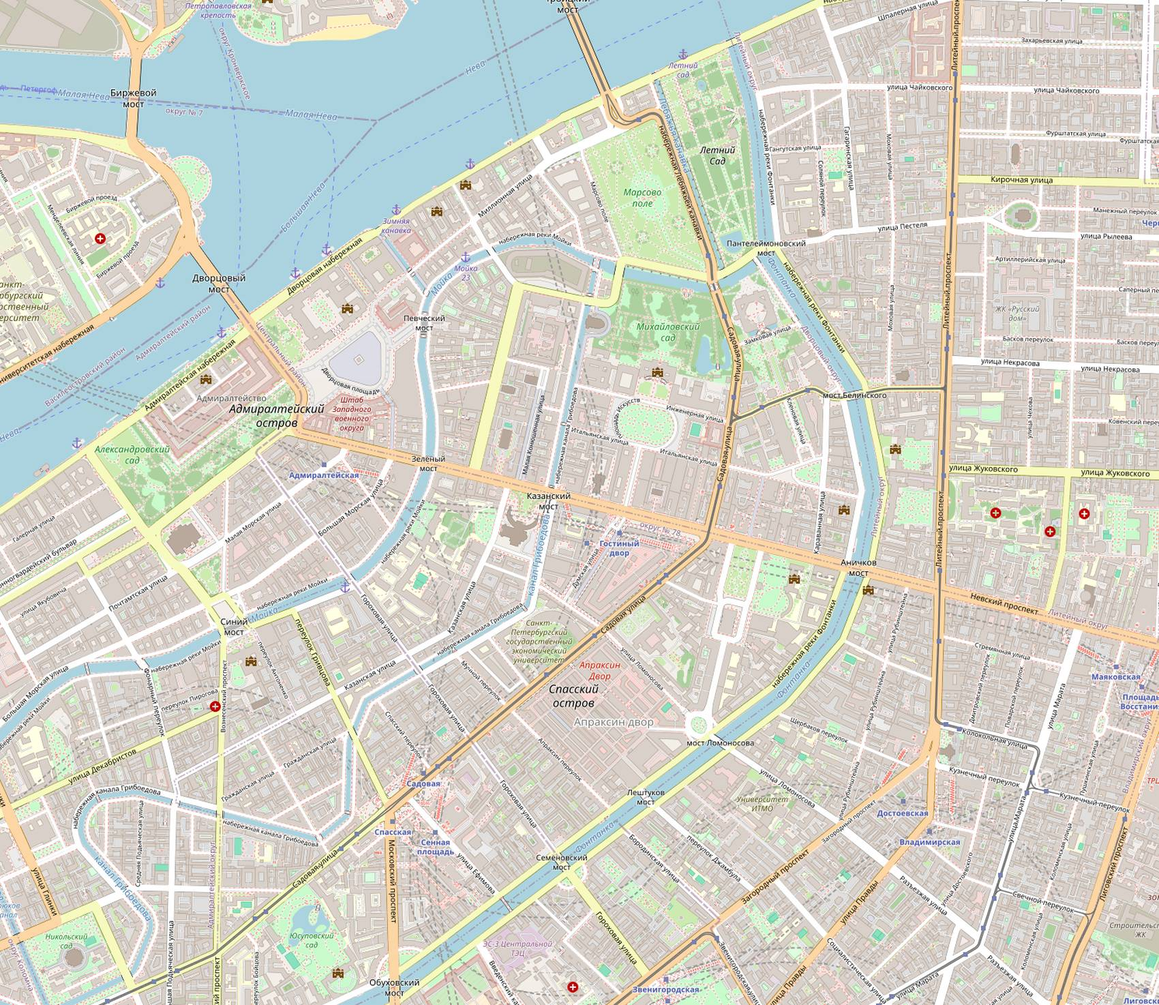
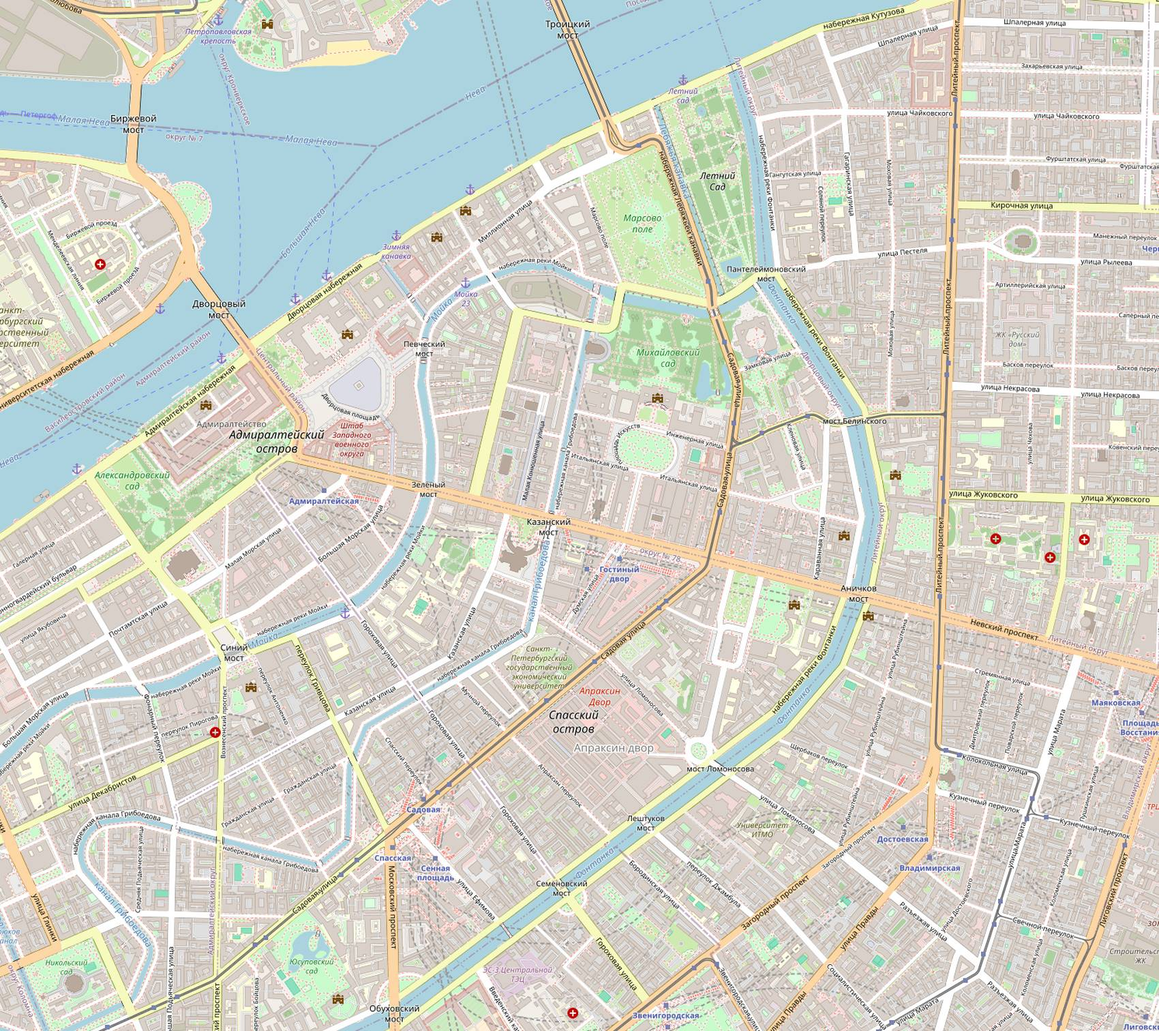
В шапке карты ужимается поиск, а не номер главы

diff --git a/index.html b/index.html
@@ -2061,6 +2061,11 @@
       background: var(--glass); border: 1px solid var(--glass-line);
     }
     #gmFind[hidden] { display: none; }
+    /* Когда в ряду трое — карта, глава, поиск, — ужимается поле, а не номер
+       главы: на телефоне выходило «Глава…» вместо «Глава VIII». Имя главы
+       говорит, где стоишь; у поиска назначение понятно и по половине подсказки.
+       Когда селекта карты нет, поле остаётся прежним. */
+    #gmMapBox:not([hidden]) ~ #gmFind { flex: 0 4 120px; }
     #gmFind::placeholder { color: var(--dim); }
     #gmHits {
       position: absolute; z-index: 3; left: 14px; right: 14px;

diff --git a/app.js b/app.js
@@ -23,7 +23,7 @@ const GIST_FILE = "prokachka.json";                // общий файл пер
    касании. Теперь пишется только своё. Общий файл остаётся нетронутым: из него
    читают, пока не переехали, и он же годится как замороженная копия. */
 const PROF_FILE = (id) => "keiko-" + id + ".json";
-const APP_VERSION = "Кэйко 569";
+const APP_VERSION = "Кэйко 570";
 
 const DEFAULT_PIECES = [];
 // Курс пастели — данные из pastel-course-viewer

diff --git a/sw.js b/sw.js
@@ -1,4 +1,4 @@
-const CACHE = "keiko-v569";
+const CACHE = "keiko-v570";
 const SHELL = ["./", "./index.html", "./app.js", "./howler.min.js", "./manifest.webmanifest", "./icon-192.png", "./icon-512.png"];
 
 self.addEventListener("install", (e) => {

diff --git a/CLAUDE.md b/CLAUDE.md
@@ -469,7 +469,10 @@ HANDOVER.md, «Где лежат данные».
 **Ростом он ровно с соседями** (`.th-select.gm-mapsel`): у `.th-select` своя
 высота в 46 точек, а кнопка главы и поле поиска ниже — селект торчал над
 рядом. Два класса в селекторе не для красоты: `.th-select` описан ниже по
-файлу и одноклассовое правило перебивает.
+файлу и одноклассовое правило перебивает. **А когда в ряду трое — карта,
+глава, поиск, — ужимается поле поиска, а не номер главы**
+(`#gmMapBox:not([hidden]) ~ #gmFind`): на телефоне выходило «Глава…» вместо
+«Глава VIII», а имя главы как раз и говорит, где стоишь.
 Зум у каждой карты свой и задаётся в спеке: у подложки жёсткий потолок в 260
 плиток, и рамка на пол-России при зуме 14 просто не соберётся.
 
